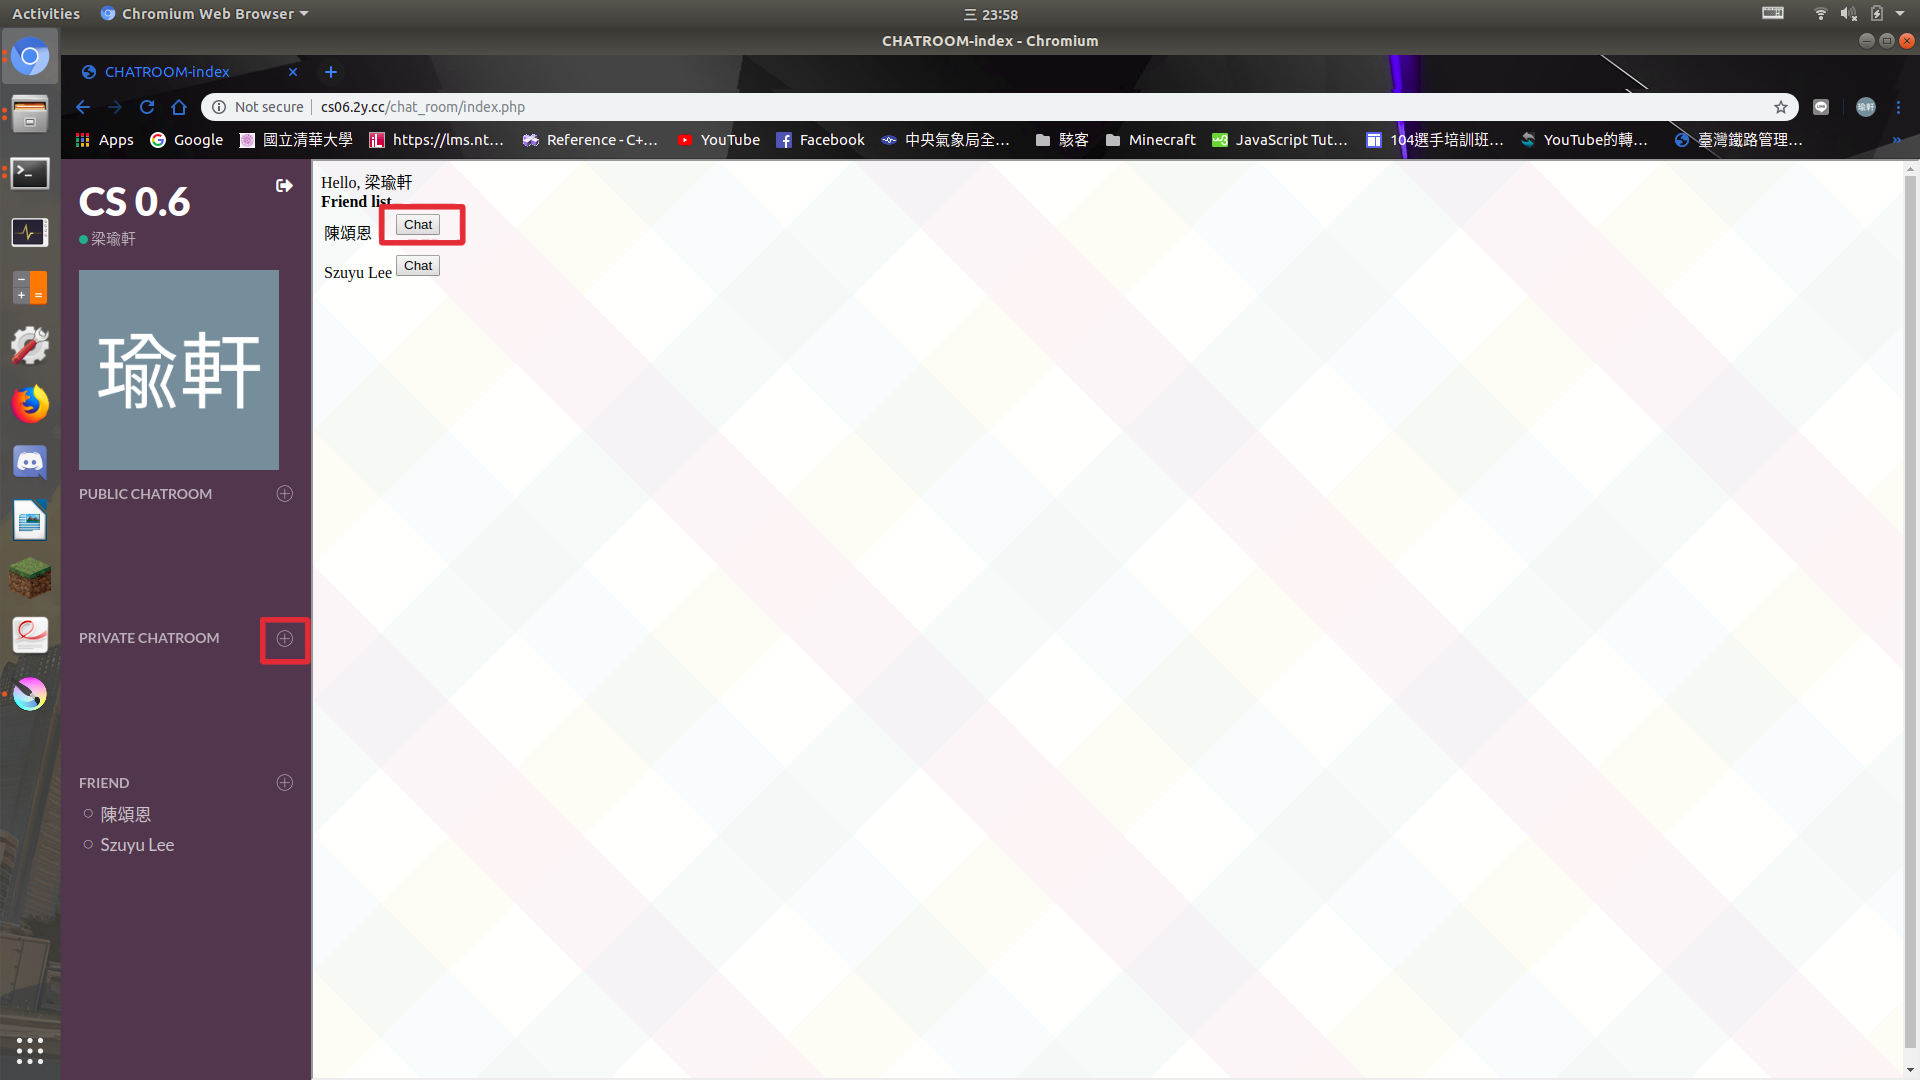
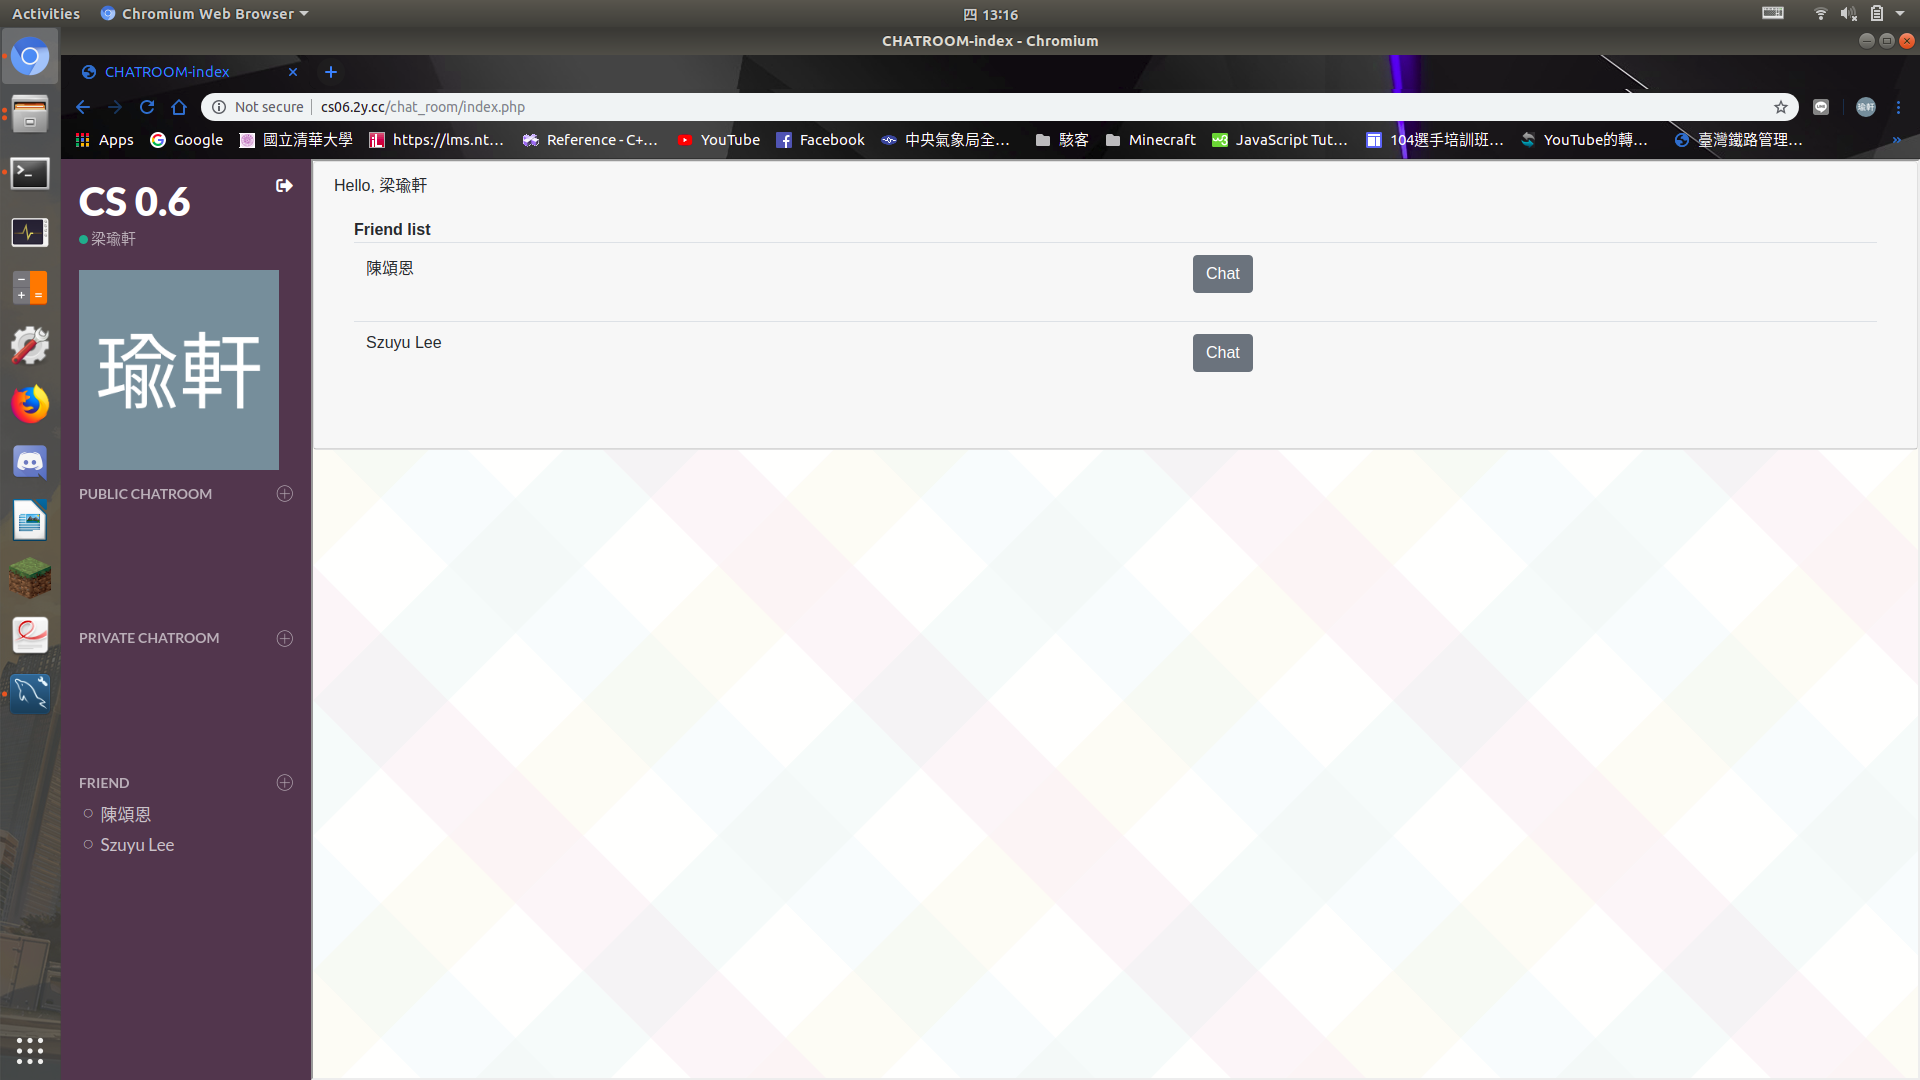
0.2.10

diff --git a/CHANGELOG.md b/CHANGELOG.md
@@ -7,6 +7,11 @@ and this project adheres to [Semantic Versioning](https://semver.org/spec/v2.0.0
 ## [Unreleased]  
 *Feature(s) in development should be displayed here, with information of who is actively dealing with it.* 
 
+## 0.2.10 - 2019-06-13 - s106062129
+## Changed
+- Update readme\_image for new look
+- Modified README.md to have good introduction
+
 ## 0.2.9 - 2019-06-13 - s106062328(szlee118)
 ## Added
 - Add css layers in chat\_room/add\_freind create\_private/public\_room  and admin

diff --git a/README.md b/README.md
@@ -24,7 +24,6 @@ Here is the [SPEC](https://hackmd.io/eKbYWhuwT_qhxavD3OAUPQ?view) from approved 
     ![](./readme_image/tag.png)
 - Voting (Only available for public chatroom)
   1. Create vote by clicking vote button in a public chatroom
-    ![](./readme_image/vote_button.png)
   2. Form vote title and option name
   3. Click confirm to create vote
     ![](./readme_image/create_vote.png)
